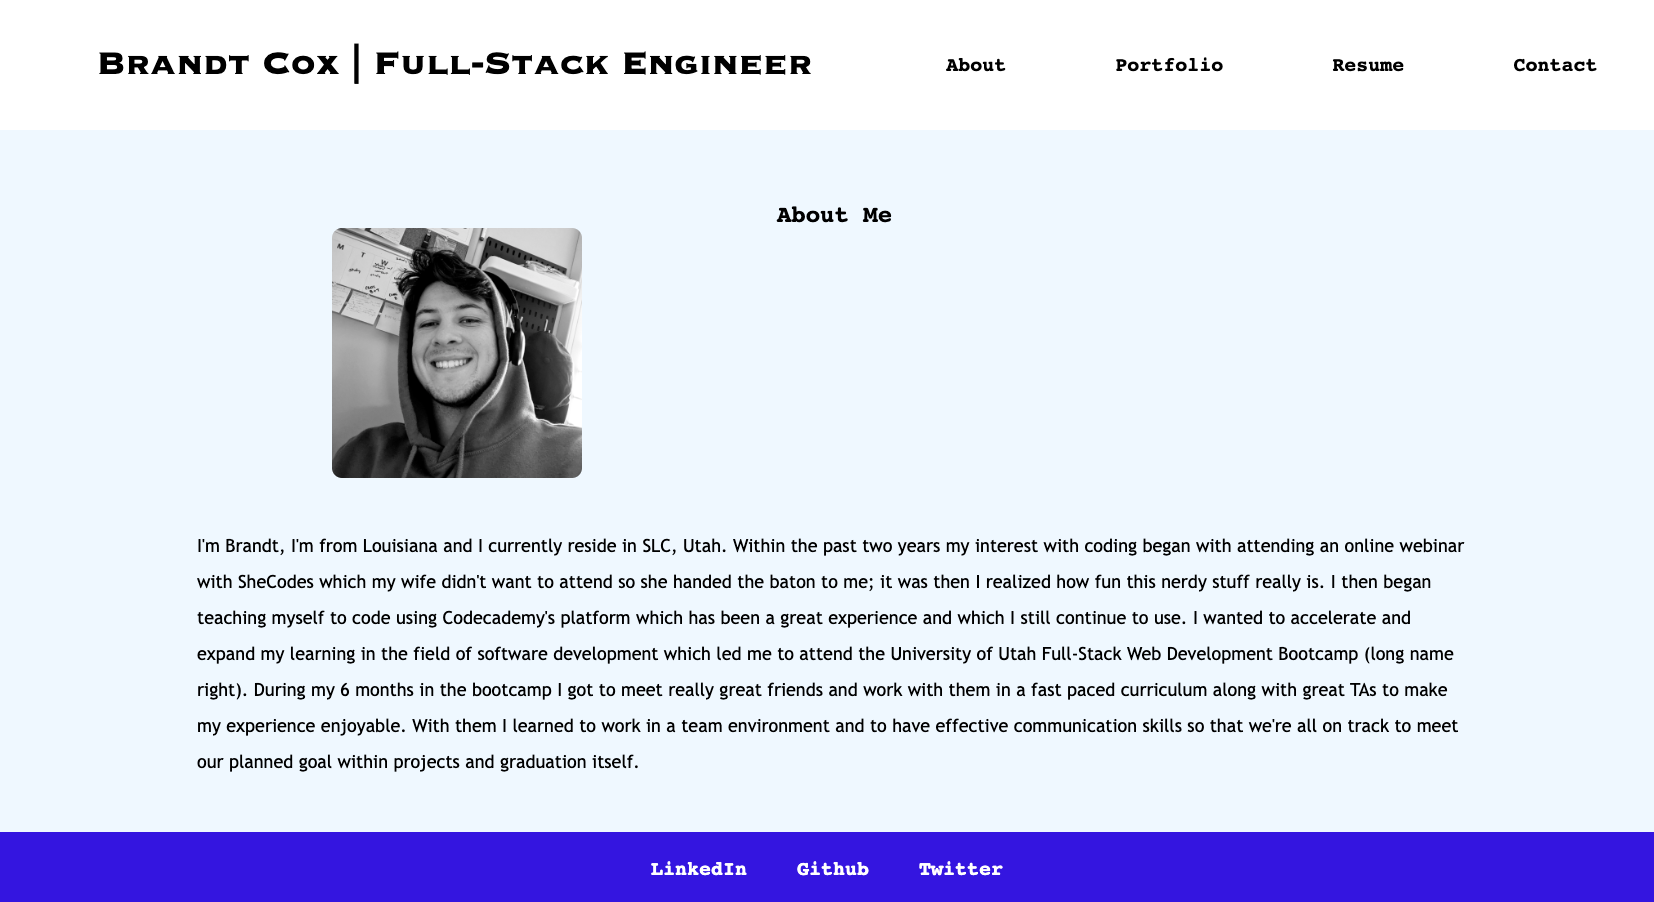
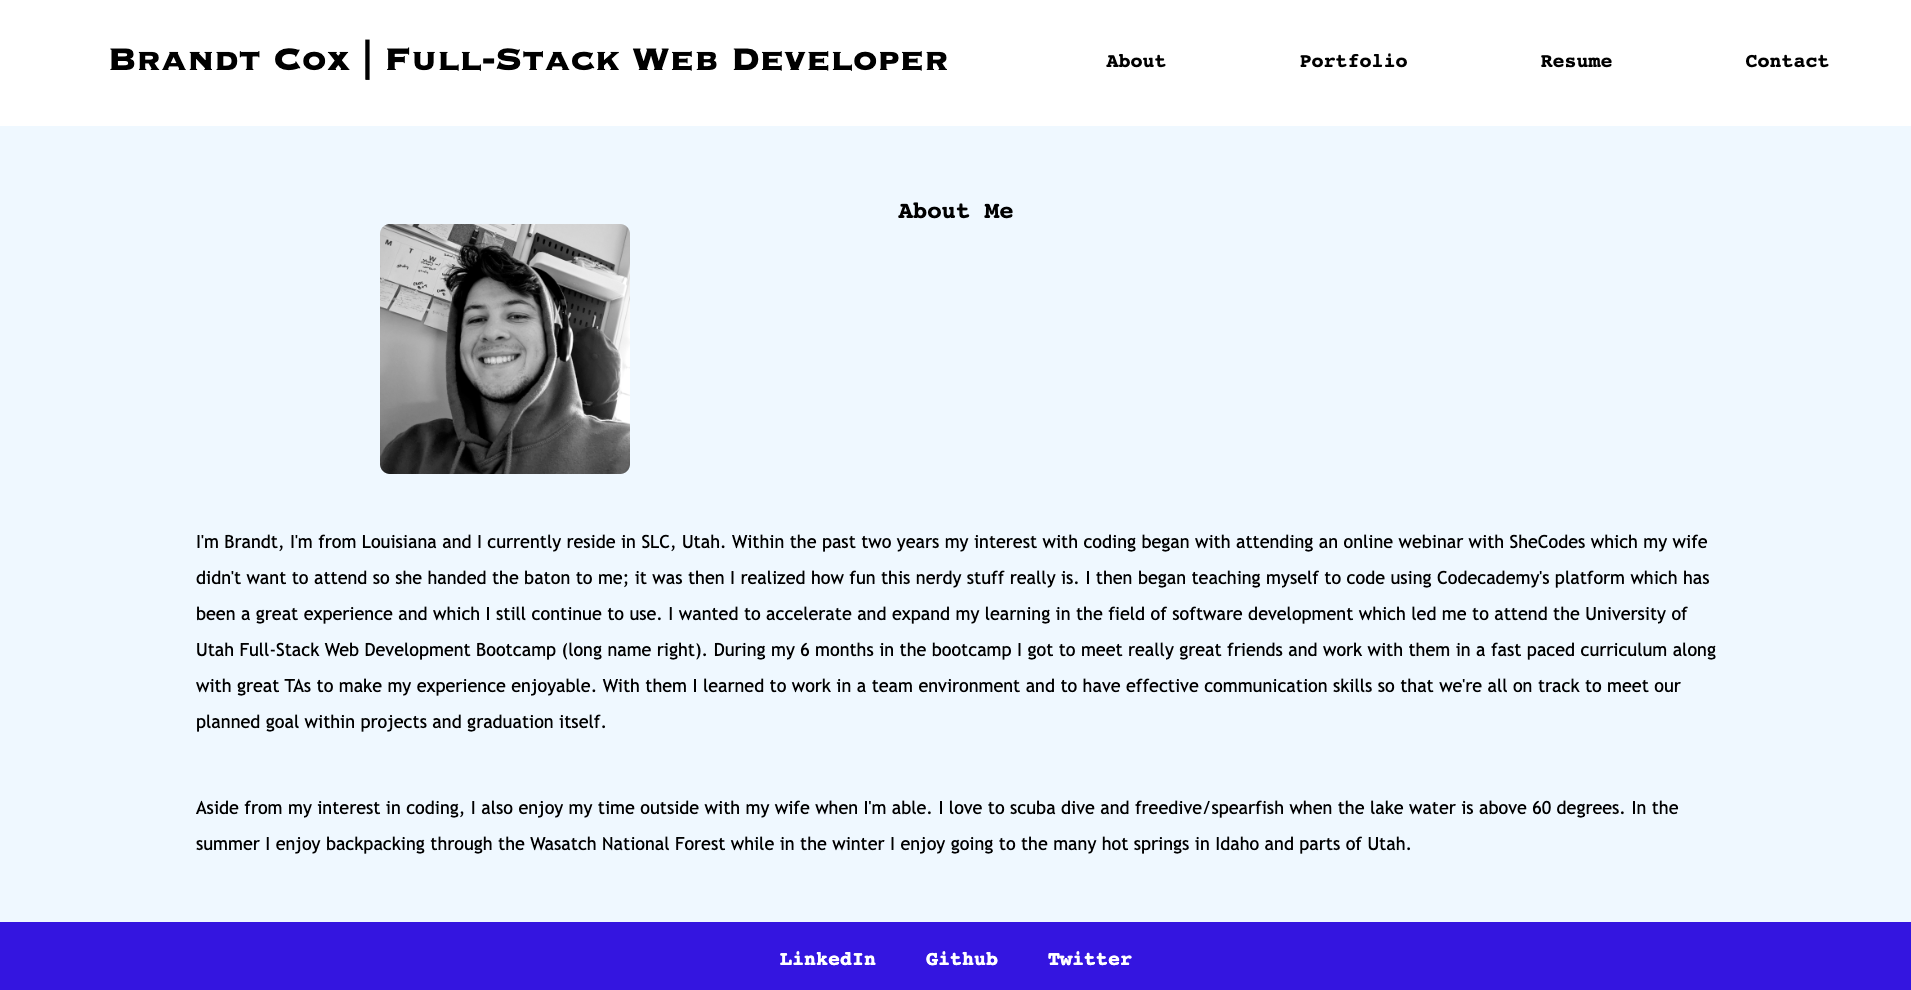
changing title

diff --git a/src/components/Nav.js b/src/components/Nav.js
@@ -17,7 +17,7 @@ function Nav() {
             
             {/* Make these Links? */}
             <ul>
-            <h1>Brandt Cox | Full-Stack Engineer</h1>
+            <h1>Brandt Cox | Full-Stack Web Developer</h1>
                 <li onClick={() => setContent(About)}>About</li>
                 <li onClick={() => setContent(Portfolio)}>Portfolio</li>
                 <li onClick={() => setContent(Resume)}>Resume</li>
